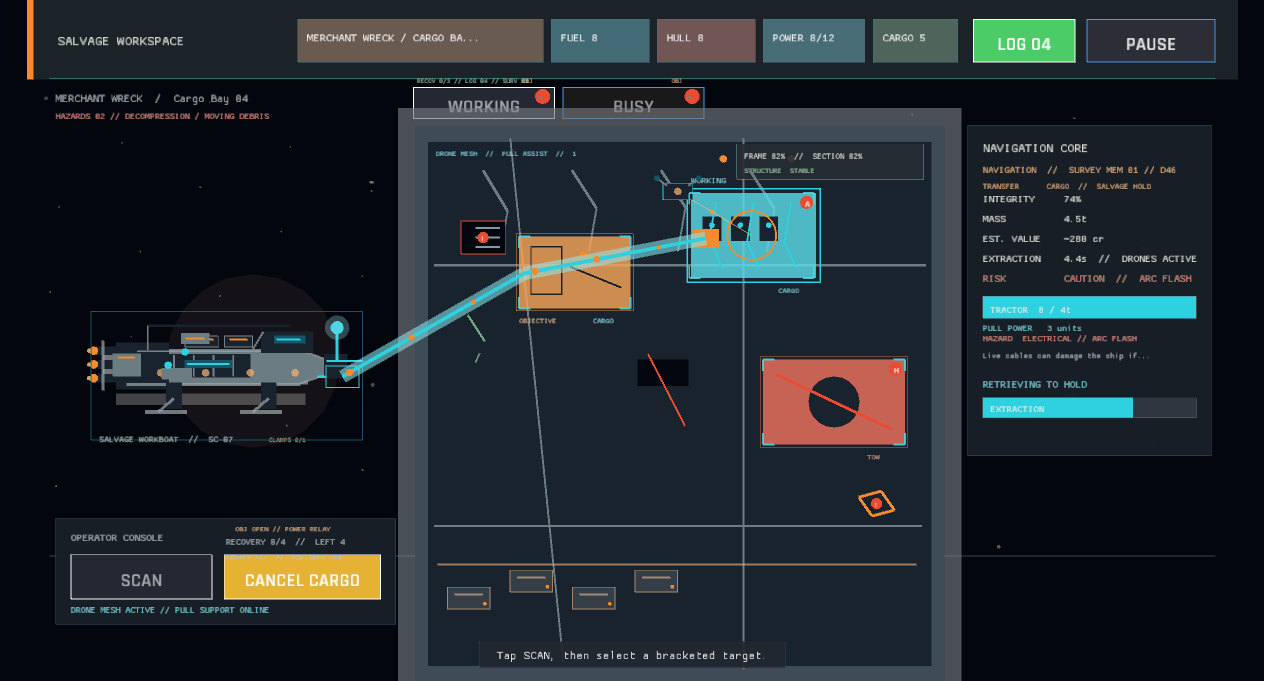
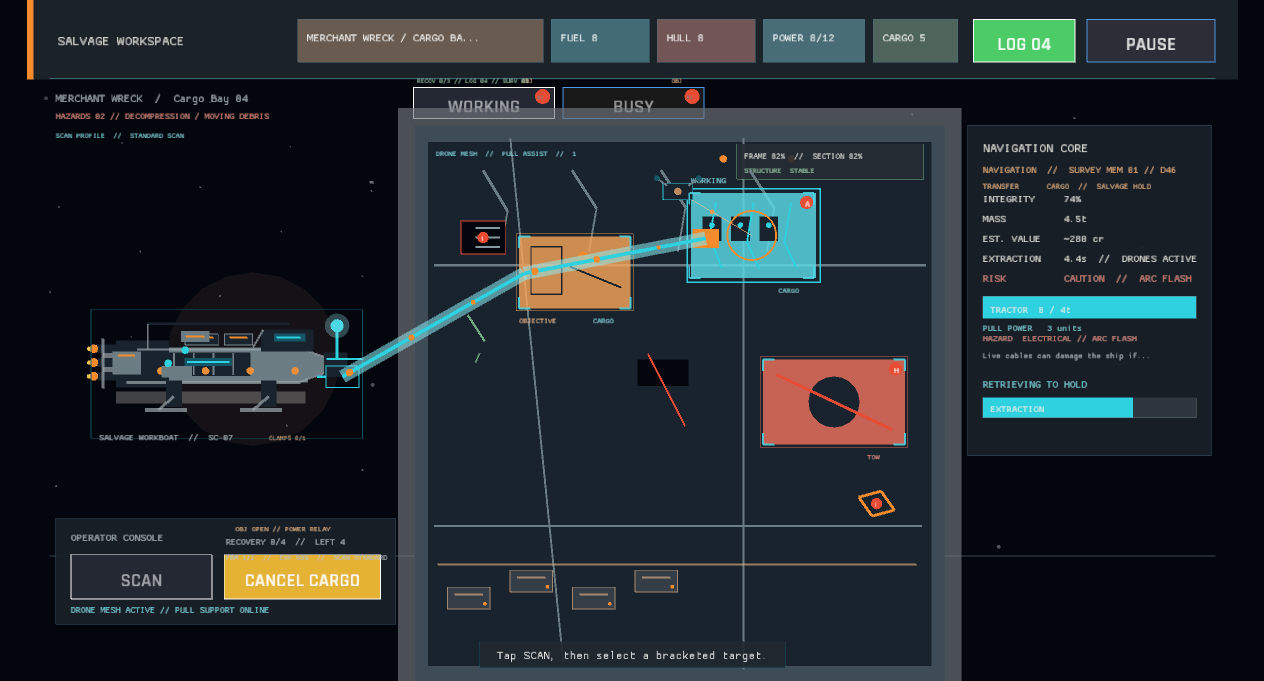
The scanner tells the captain which array is doing the work (scan support readout)
Selected salvage now exposes ARRAY, DRONES ACTIVE, or ARRAY+DRONE support beside the extraction duration. Added focused label coverage and refreshed scanner and drone verification captures.

diff --git a/src/ui/extraction_panel.rs b/src/ui/extraction_panel.rs
@@ -6,6 +6,7 @@ use super::*;
 use crate::engine::WorkspaceHazard;
 use crate::engine::{exposure_label, WorkspaceOutcome};
 use crate::state::workspace::{TransferMode, WORKSPACE_STABILIZATION_ENERGY_COST};
+use crate::state::WorkspaceScanProfile;
 
 const STABILIZE_COMMAND_LABEL: &str = "STABILIZE  -2P";
 
@@ -45,6 +46,13 @@ pub fn draw_target_panel(ctx: &UiContext<'_>, layout: SalvageLayout, actions: &m
         visual_theme::site_accent(&site_theme(ctx)),
     );
     let transfer_mode = TransferMode::from_target(target);
+    let scan_profile = ctx
+        .session
+        .expedition
+        .as_ref()
+        .map_or(WorkspaceScanProfile::Standard, |expedition| {
+            expedition.scan_profile
+        });
     draw_text(
         format!(
             "TRANSFER      {}  //  {}",
@@ -83,11 +91,10 @@ pub fn draw_target_panel(ctx: &UiContext<'_>, layout: SalvageLayout, actions: &m
             ctx.session
                 .extraction_duration(target_id, ctx.data)
                 .unwrap_or(target.extraction_duration),
-            if ctx.session.module_stats(ctx.data).drone_support > 0 {
-                "  //  DRONES ACTIVE"
-            } else {
-                ""
-            }
+            extraction_support_label(
+                scan_profile,
+                ctx.session.module_stats(ctx.data).drone_support > 0,
+            )
         ),
         layout.target_panel.x + 16.0,
         layout.target_panel.y + 145.0,
@@ -269,6 +276,18 @@ pub fn draw_target_panel(ctx: &UiContext<'_>, layout: SalvageLayout, actions: &m
         ButtonTone::Warning,
     ) {
         actions.push(UiAction::AbandonTarget);
+    }
+}
+
+fn extraction_support_label(
+    scan_profile: WorkspaceScanProfile,
+    drones_active: bool,
+) -> &'static str {
+    match (scan_profile, drones_active) {
+        (WorkspaceScanProfile::Array, true) => "  //  ARRAY+DRONE",
+        (WorkspaceScanProfile::Array, false) => "  //  ARRAY",
+        (WorkspaceScanProfile::Standard, true) => "  //  DRONES ACTIVE",
+        (WorkspaceScanProfile::Standard, false) => "",
     }
 }
 

diff --git a/src/ui/extraction_panel/tests.rs b/src/ui/extraction_panel/tests.rs
@@ -44,3 +44,19 @@ fn survey_memory_label_distinguishes_new_and_repeated_passes() {
     };
     assert_eq!(survey_memory_label(Some(&note)), "SURVEY MEM 02 // D46");
 }
+
+#[test]
+fn extraction_line_names_scan_and_drone_support() {
+    assert_eq!(
+        extraction_support_label(crate::state::WorkspaceScanProfile::Array, false),
+        "  //  ARRAY"
+    );
+    assert_eq!(
+        extraction_support_label(crate::state::WorkspaceScanProfile::Standard, true),
+        "  //  DRONES ACTIVE"
+    );
+    assert_eq!(
+        extraction_support_label(crate::state::WorkspaceScanProfile::Array, true),
+        "  //  ARRAY+DRONE"
+    );
+}
